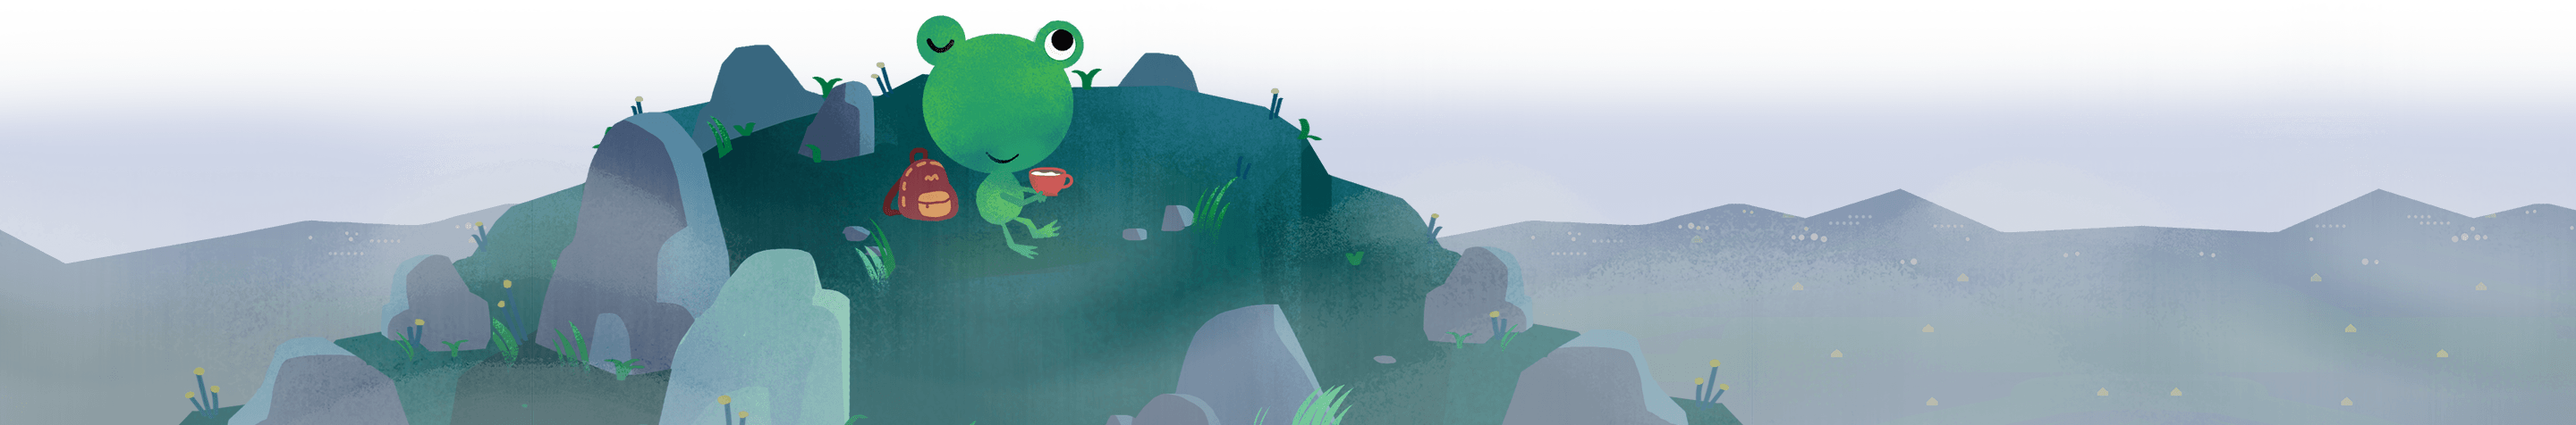
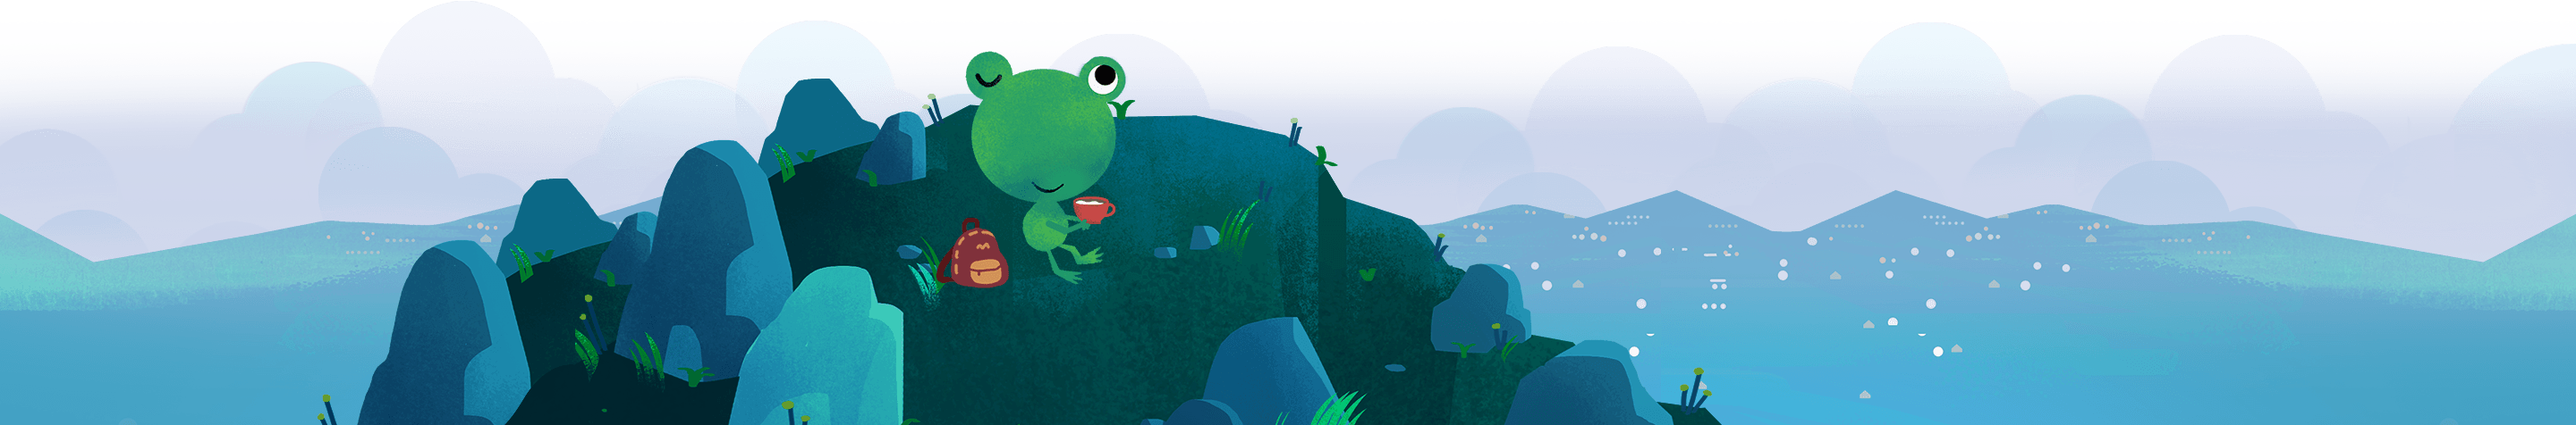
Update location weather.

diff --git a/locations/nieuwendijk/weather-frog.css b/locations/nieuwendijk/weather-frog.css
@@ -1,1 +1,1 @@
-.weather-frog { background: linear-gradient(top, #8B8583 0%, #97918E 100%); background: -moz-linear-gradient(top, #8B8583 0%, #97918E 100%); background: -ms-linear-gradient(top, #8B8583 0%, #97918E 100%); background: -o-linear-gradient(top, #8B8583 0%, #97918E 100%); background: -webkit-linear-gradient(top, #8B8583 0%, #97918E 100%); }
+.weather-frog { background: linear-gradient(top, #6C8FA0 0%, #769ECA 100%); background: -moz-linear-gradient(top, #6C8FA0 0%, #769ECA 100%); background: -ms-linear-gradient(top, #6C8FA0 0%, #769ECA 100%); background: -o-linear-gradient(top, #6C8FA0 0%, #769ECA 100%); background: -webkit-linear-gradient(top, #6C8FA0 0%, #769ECA 100%); }
